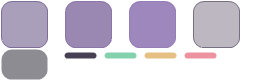
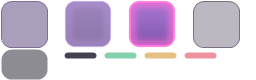
style: Destaca la selección del equipo

Changed region(s): [[0.5, 0.0, 0.6875, 0.6], [0.25, 0.0, 0.4375, 0.6]]

diff --git a/herramientas/party_selected.py b/herramientas/party_selected.py
@@ -1,0 +1,36 @@
+import sys
+from PIL import Image, ImageDraw, ImageFilter
+
+path = sys.argv[1]
+im = Image.open(path).convert("RGBA")
+S = 4
+
+
+def tile(x0, fill_top, fill_bot, border, bw, glow, glow_a):
+    W = H = 48 * S
+    t = Image.new("RGBA", (W, H), (0, 0, 0, 0))
+    m = Image.new("L", (W, H), 0)
+    ImageDraw.Draw(m).rounded_rectangle([S, S, W - S - 1, H - S - 1], radius=10 * S, fill=255)
+    g = Image.new("RGBA", (W, H))
+    gd = ImageDraw.Draw(g)
+    for j in range(H):
+        k = j / (H - 1)
+        gd.line([(0, j), (W, j)], fill=tuple(int(fill_top[i] + (fill_bot[i] - fill_top[i]) * k) for i in range(4)))
+    t.paste(g, (0, 0), m)
+    if glow:
+        inner = Image.new("L", (W, H), 0)
+        ImageDraw.Draw(inner).rounded_rectangle([S, S, W - S - 1, H - S - 1], radius=10 * S, outline=255, width=6 * S)
+        inner = inner.filter(ImageFilter.GaussianBlur(3 * S))
+        inner = Image.composite(inner, Image.new("L", (W, H), 0), m).point(lambda a: int(a * glow_a))
+        gl = Image.new("RGBA", (W, H), glow)
+        gl.putalpha(inner)
+        t.alpha_composite(gl)
+    ImageDraw.Draw(t).rounded_rectangle([S, S, W - S - 1, H - S - 1], radius=10 * S, outline=border, width=bw * S)
+    t = t.resize((48, 48), Image.LANCZOS)
+    im.paste(Image.new("RGBA", (48, 48), (0, 0, 0, 0)), (x0, 0))
+    im.alpha_composite(t, (x0, 0))
+
+
+tile(64, (120, 86, 165, 185), (96, 66, 138, 185), (190, 160, 230, 230), 1, (200, 170, 240, 255), 0.35)
+tile(128, (160, 104, 210, 225), (110, 62, 160, 225), (255, 120, 220, 255), 2, (255, 110, 215, 255), 0.85)
+im.save(path, optimize=True)
